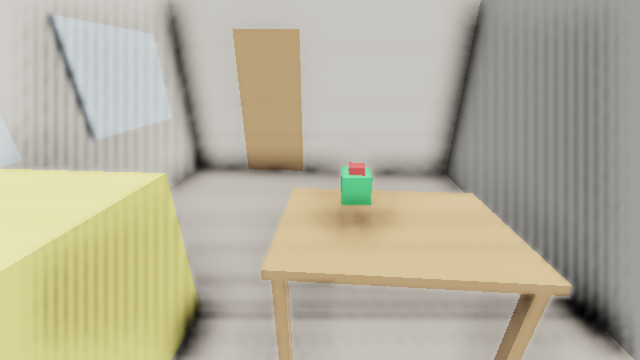
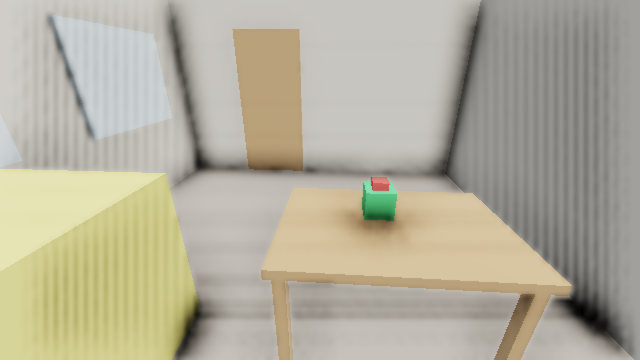
mardi modification

Changed region(s): [[0.5312, 0.4278, 0.6562, 0.6722]]

diff --git a/chapitre-09/exo9-tenir_un_objet_et_le_laisser_tomber/saisie.cpp b/chapitre-09/exo9-tenir_un_objet_et_le_laisser_tomber/saisie.cpp
@@ -9,7 +9,7 @@
 //
 //    (rien)          : version JUSTE   - tenu tant que courant est vrai
 //    SAISIE_FAUTIF=1 : version FAUTIVE - tenu seulement sur le front (change)
-//  Capture a l'image 55 : niveau.png (juste) ou front.png (fautive).
+//  Capture a l'image 46 : niveau.png (juste) ou front.png (fautive).
 // =============================================================================
 #include "NKWindow/NKMain.h"
 #include "NKWindow/Core/NkWindow.h"
@@ -263,12 +263,14 @@ struct Monde {
 		// VERSION FAUTIVE (a garder en commentaire pour la lecture) : l'objet
 		// n'est tenu que le temps du front, donc il tombe a l'image suivante.
 		//     if (objet.tenu && !front) objet.Lacher();
-		// VERSION JUSTE : il est tenu tant que le niveau est vrai.
-		//     if (objet.tenu && !e.courant) objet.Lacher();
+		// VERSION JUSTE : il est tenu tant que le niveau est vrai, et on ne lache
+		// que sur un VRAI front de relachement : source presente (actif), niveau
+		// retombe (!courant) et bascule a cette image (change).
+		//     if (objet.tenu && e.actif && !e.courant && e.change) objet.Lacher();
 		if (fautif) {
 			if (objet.tenu && !front) objet.Lacher();
 		} else {
-			if (objet.tenu && !e.courant) objet.Lacher();
+			if (objet.tenu && e.actif && !e.courant && e.change) objet.Lacher();
 		}
 		objet.Avancer(paume);
 	}
@@ -387,7 +389,7 @@ int nkmain(const NkEntryState &state) {
 						 (unsigned long long)image, e.courant ? 1 : 0, e.change ? 1 : 0, e.actif ? 1 : 0);
 			std::fflush(journal);
 		}
-		if (image == 55) {
+		if (image == 46) {
 			const bool ok = cible->Capture((fautif ? "front.png" : "niveau.png"));
 			std::printf("[Sim] capture image %llu -> %s (%s)\n", (unsigned long long)image, (fautif ? "front.png" : "niveau.png"), ok ? "ok" : "echec");
 		}
